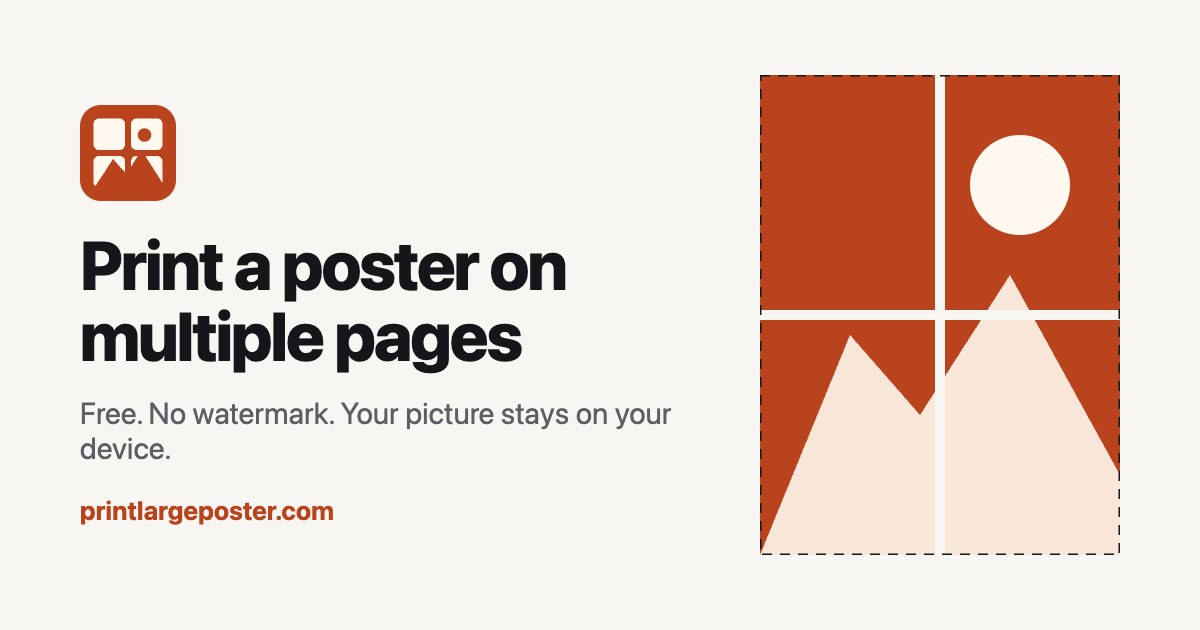
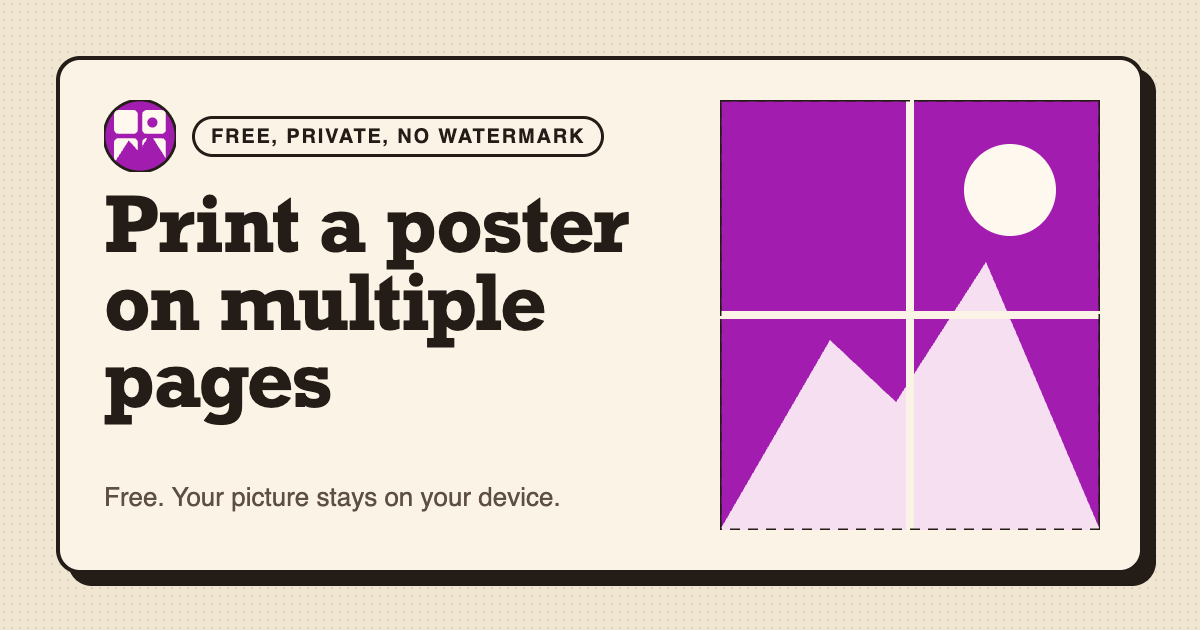
Restyle: Retro print skin and accent #a21caf

diff --git a/src/styles/skin-retro.css b/src/styles/skin-retro.css
@@ -1,0 +1,70 @@
+/* Skin: Retro print. Cream paper, 2px ink borders, hard offset shadows, slab headings, faint halftone.
+   Tokens first, then surface rules. Switched by data-skin="retro" on <html>. */
+:root[data-skin="retro"] {
+  --paper: #f1e6d2;
+  --card: #fbf4e6;
+  --ink: #241c17;
+  --muted: #5e4f44;
+  --line: #cdbda3;          /* hairlines, decoration only */
+  --edge: #241c17;          /* input and button edges (WCAG 1.4.11) */
+  --fill: #fffaf0;          /* input fill */
+  --shadow-ink: #241c17;
+  --dots: rgb(36 28 23 / .07);
+  --brand-ink: color-mix(in oklab, var(--brand) 85%, black);
+  --brand-soft: color-mix(in oklab, var(--brand) 14%, #fbf4e6);
+  --font-slab: Rockwell, "Roboto Slab", "Rockwell Nova", Clarendon, Georgia, serif;
+}
+:root[data-skin="retro"][data-theme="dark"] {
+  --paper: #1b1512;
+  --card: #261e19;
+  --ink: #f1e6d2;
+  --muted: #c2b2a2;
+  --line: #43362d;
+  --edge: #f1e6d2;
+  --fill: #1f1814;
+  --shadow-ink: #000000;
+  --dots: rgb(241 230 210 / .05);
+  --brand-ink: color-mix(in oklab, var(--brand) 50%, white);
+  --brand-soft: color-mix(in oklab, var(--brand) 28%, #261e19);
+}
+:root[data-skin="retro"][data-theme] body { background: transparent; }
+:root[data-skin="retro"][data-theme] body::before { content: ""; position: fixed; inset: 0; z-index: -1; pointer-events: none; background-image: radial-gradient(var(--dots) 1px, transparent 1.4px); background-size: 6px 6px; }
+:root[data-skin="retro"][data-theme] :focus-visible { outline: 3px solid var(--brand-ink); outline-offset: 2px; }
+
+/* Header, hero, footer */
+:root[data-skin="retro"][data-theme] header { border-bottom: 2px solid var(--ink); background: var(--paper); backdrop-filter: none; }
+:root[data-skin="retro"][data-theme] header img { border: 2px solid var(--ink); border-radius: 50%; }
+:root[data-skin="retro"][data-theme] header a:first-child { font-family: var(--font-slab); }
+:root[data-skin="retro"][data-theme] header nav a[aria-current="page"] { background: none; box-shadow: inset 0 -3px 0 var(--brand-ink); border-radius: 0; }
+:root[data-skin="retro"][data-theme] #theme-toggle { border: 2px solid var(--edge); background: var(--card); box-shadow: 2px 2px 0 var(--shadow-ink); }
+:root[data-skin="retro"][data-theme] main > section:first-child > p:first-child { border: 2px solid var(--ink); background: var(--card); color: var(--ink); text-transform: uppercase; letter-spacing: .08em; font-size: .75rem; font-weight: 700; }
+:root[data-skin="retro"][data-theme] main h1 { font-family: var(--font-slab); font-weight: 700; letter-spacing: -0.01em; line-height: 1.02; }
+:root[data-skin="retro"][data-theme] .prose-site h2, :root[data-skin="retro"][data-theme] #faq-h { font-family: var(--font-slab); font-weight: 700; letter-spacing: 0; }
+:root[data-skin="retro"][data-theme] footer { border-top: 2px solid var(--ink); }
+:root[data-skin="retro"][data-theme] .prose-site th, :root[data-skin="retro"][data-theme] .tbl thead th { background: var(--brand-soft); }
+:root[data-skin="retro"][data-theme] .prose-site th, :root[data-skin="retro"][data-theme] .prose-site td { border-bottom: 1px solid var(--line); }
+:root[data-skin="retro"][data-theme] #faq-h + div { border-color: var(--ink); }
+
+/* Poster tiler tool */
+:root[data-skin="retro"][data-theme] #tool > div:not(.hidden) { border: 2px solid var(--ink); border-radius: 14px; background: var(--card); box-shadow: 6px 6px 0 var(--shadow-ink); }
+:root[data-skin="retro"][data-theme] #tool > .sticky { box-shadow: 4px 4px 0 var(--shadow-ink); }
+:root[data-skin="retro"][data-theme] #preview { border: 2px solid var(--ink); border-radius: 10px; }
+:root[data-skin="retro"][data-theme] .field-label { text-transform: uppercase; letter-spacing: .08em; font-size: .75rem; font-weight: 700; font-family: var(--font-sans); }
+:root[data-skin="retro"][data-theme] .field { border: 2px solid var(--edge); border-radius: 8px; background: var(--fill); }
+:root[data-skin="retro"][data-theme] .field:focus { box-shadow: none; border-color: var(--edge); outline: 3px solid var(--brand-ink); outline-offset: 2px; }
+:root[data-skin="retro"][data-theme] .seg { border: 2px solid var(--edge); border-radius: 10px; background: var(--fill); }
+:root[data-skin="retro"][data-theme] .seg span { border-radius: 6px; }
+:root[data-skin="retro"][data-theme] .seg input:checked + span { background: var(--brand); color: #fff; box-shadow: none; }
+:root[data-skin="retro"][data-theme] .step-btn { border: 2px solid var(--edge); border-radius: 8px; background: var(--card); box-shadow: 3px 3px 0 var(--shadow-ink); }
+:root[data-skin="retro"][data-theme] .step-btn:active { transform: translate(3px, 3px); box-shadow: none; }
+:root[data-skin="retro"][data-theme] .btn-primary { border: 2px solid var(--ink); border-radius: 10px; box-shadow: 4px 4px 0 var(--shadow-ink); font-family: var(--font-slab); letter-spacing: .01em; }
+:root[data-skin="retro"][data-theme] .btn-primary:hover:not(:disabled) { filter: none; transform: translate(-1px, -1px); box-shadow: 5px 5px 0 var(--shadow-ink); }
+:root[data-skin="retro"][data-theme] .btn-primary:active:not(:disabled) { transform: translate(4px, 4px); box-shadow: none; }
+:root[data-skin="retro"][data-theme] .btn-primary:disabled { opacity: 1; background: var(--line); color: var(--muted); box-shadow: none; }
+:root[data-skin="retro"][data-theme] .btn-ghost { border: 2px dashed var(--edge); border-radius: 10px; background: var(--brand-soft); color: var(--ink); }
+:root[data-skin="retro"][data-theme] .stat { border: 2px solid var(--ink); border-radius: 10px; background: var(--card); }
+:root[data-skin="retro"][data-theme] .stat dd { font-family: var(--font-slab); color: var(--ink); font-size: 1.125rem; }
+:root[data-skin="retro"][data-theme] .stat:first-child { background: var(--brand); box-shadow: 3px 3px 0 var(--shadow-ink); color: #fff; }
+:root[data-skin="retro"][data-theme] .stat:first-child dt, :root[data-skin="retro"][data-theme] .stat:first-child dd { color: #fff; }
+:root[data-skin="retro"][data-theme] .stat:first-child dd { font-size: 1.75rem; line-height: 1.1; }
+:root[data-skin="retro"][data-theme] .data-table thead th { border-bottom-color: var(--ink); }

diff --git a/src/styles/global.css b/src/styles/global.css
@@ -1,4 +1,5 @@
 @import "tailwindcss" source(none);
+@import "./skin-retro.css";
 @source "../";
 @custom-variant dark (&:where([data-theme="dark"], [data-theme="dark"] *));
 
@@ -11,6 +12,7 @@
   --color-ink: var(--ink);
   --color-muted: var(--muted);
   --color-line: var(--line);
+  --color-edge: var(--edge);
   --font-sans: ui-sans-serif, system-ui, -apple-system, "Segoe UI", Roboto, "Helvetica Neue", Arial, sans-serif;
   --font-mono: ui-monospace, "SF Mono", Menlo, Consolas, monospace;
 }
@@ -22,6 +24,7 @@
   --ink: #16161a;
   --muted: #5d5d66;
   --line: #e2e0d8;
+  --edge: #878c93;
   --brand-ink: color-mix(in oklab, var(--brand) 82%, black);
   --brand-soft: color-mix(in oklab, var(--brand) 10%, var(--paper));
 }
@@ -32,6 +35,7 @@
   --ink: #ececea;
   --muted: #a0a0a8;
   --line: #2a2b30;
+  --edge: #6b7078;
   --brand-ink: color-mix(in oklab, var(--brand) 55%, white);
   --brand-soft: color-mix(in oklab, var(--brand) 18%, var(--paper));
 }
@@ -54,15 +58,15 @@ body { background: var(--paper); color: var(--ink); font-family: var(--font-sans
 
 /* Tool controls */
 .field-label { display:block; font-size:.8125rem; font-weight:650; margin-bottom:.375rem; color:var(--ink); }
-.field { width:100%; min-height:44px; border-radius:12px; border:1px solid var(--line); background:var(--paper); color:var(--ink); padding:0 .75rem; font-size:1rem; outline:none; }
+.field { width:100%; min-height:44px; border-radius:12px; border:1px solid var(--edge); background:var(--paper); color:var(--ink); padding:0 .75rem; font-size:1rem; outline:none; }
 .field:focus { border-color: var(--brand); box-shadow: 0 0 0 3px color-mix(in oklab, var(--brand) 25%, transparent); }
-.seg { display:grid; grid-auto-flow:column; grid-auto-columns:1fr; gap:4px; padding:4px; background:var(--paper); border:1px solid var(--line); border-radius:14px; margin:0; min-width:0; }
+.seg { display:grid; grid-auto-flow:column; grid-auto-columns:1fr; gap:4px; padding:4px; background:var(--paper); border:1px solid var(--edge); border-radius:14px; margin:0; min-width:0; }
 .seg label { position:relative; display:block; }
 .seg input { position:absolute; inset:0; width:100%; height:100%; opacity:0; margin:0; cursor:pointer; }
 .seg span { display:flex; min-height:42px; align-items:center; justify-content:center; text-align:center; padding:0 .5rem; border-radius:10px; font-size:.875rem; font-weight:600; color:var(--muted); line-height:1.15; }
 .seg input:checked + span { background:var(--card); color:var(--ink); box-shadow:0 0 0 1.5px var(--brand); }
 .seg input:focus-visible + span { outline:2px solid var(--brand-ink); outline-offset:2px; }
-.step-btn { flex:none; width:44px; height:44px; border-radius:12px; border:1px solid var(--line); background:var(--card); color:var(--ink); font-size:1.25rem; font-weight:600; line-height:1; cursor:pointer; }
+.step-btn { flex:none; width:44px; height:44px; border-radius:12px; border:1px solid var(--edge); background:var(--card); color:var(--ink); font-size:1.25rem; font-weight:600; line-height:1; cursor:pointer; }
 .step-btn:hover { border-color:var(--brand); }
 .chk { display:flex; align-items:center; gap:.75rem; min-height:44px; cursor:pointer; font-size:.9375rem; }
 .chk input { width:20px; height:20px; accent-color: var(--brand); flex:none; }

diff --git a/src/site.config.ts b/src/site.config.ts
@@ -14,7 +14,8 @@ export default {
   email: 'hello@printlargeposter.com',       // contact email (shown on Contact and Privacy pages)
   ga4: '',                            // GA4 measurement ID, e.g. 'G-XXXXXXXXXX'. Empty = Google Analytics off
   adsense: '',                        // AdSense publisher ID, e.g. 'ca-pub-1234567890123456'. Empty = ads off
-  brand: '#b8431d',                   // brand color (hex)
+  brand: '#a21caf',                   // brand color (hex)
+  skin: 'retro',                      // visual skin: minimal, swiss, clay or retro
   locale: 'en-US',                    // BCP 47 language tag
   ogImage: '/og.png',                        // e.g. '/og.png' (1200x630 file in public/). Empty = no image
   category: 'UtilitiesApplication',   // schema.org applicationCategory
